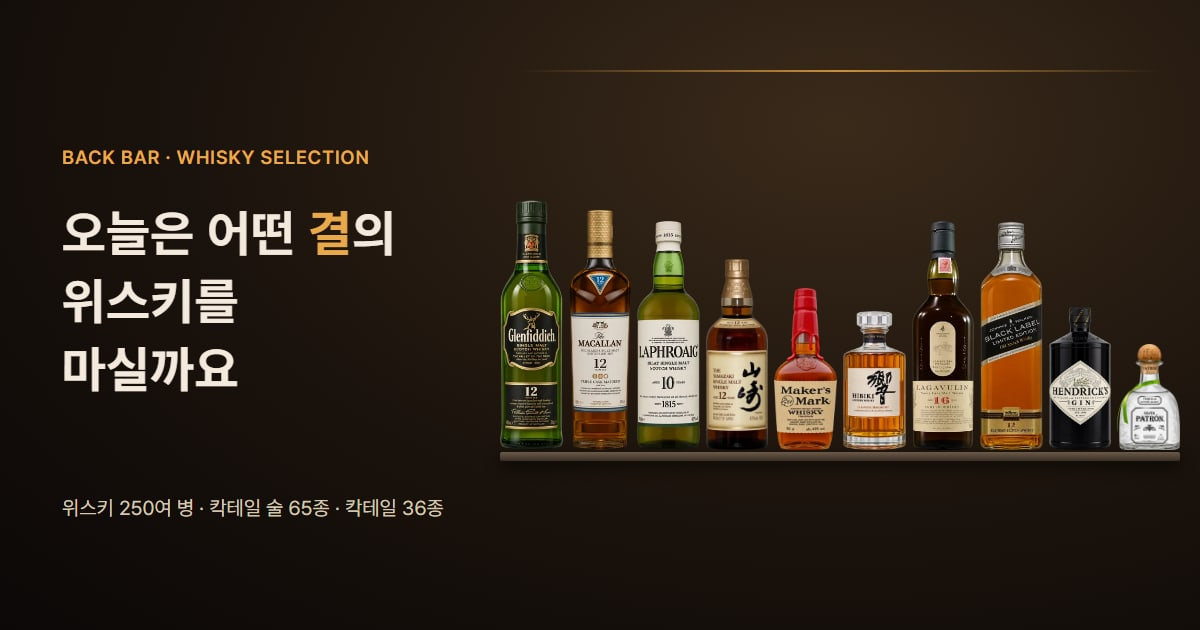
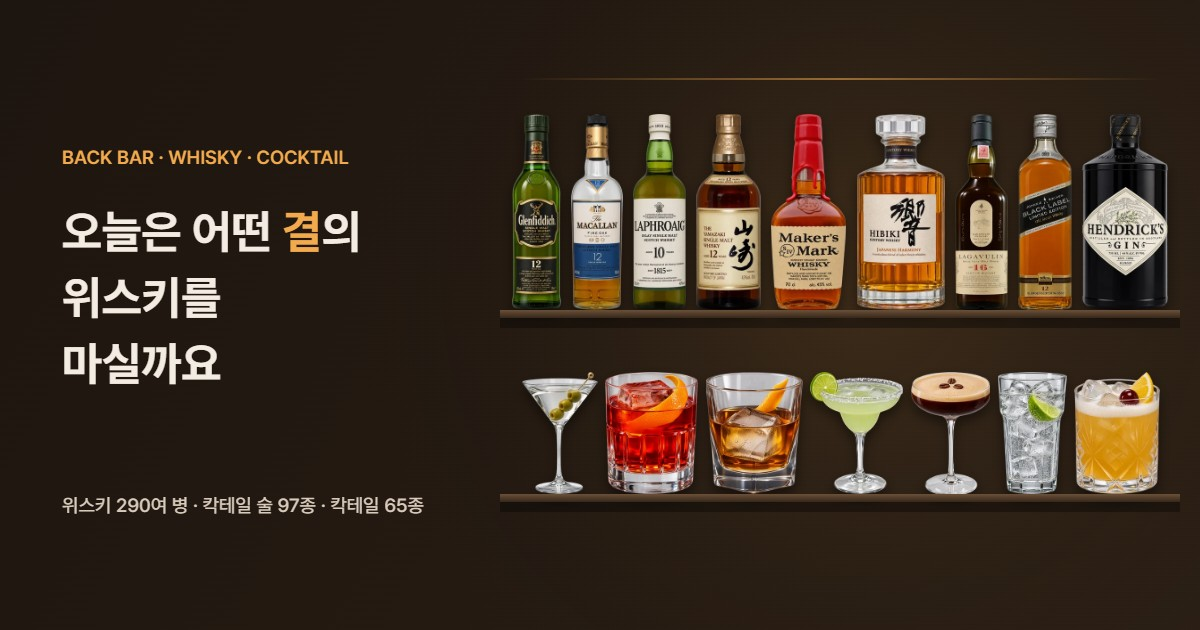
공유 미리보기 이미지에 칵테일 잔 선반 추가, 수록 수 갱신
왜: 칵테일 잔 그림이 생겼는데 공유 이미지는 위스키 병만 있었고, 이미지·og 설명의 수록 수(250여 병·65종·36종)가 옛 값이었음.

바꾼 것: 병 9개 선반 아래 칵테일 7잔 선반을 더하고 머리말을 BACK BAR · WHISKY · COCKTAIL로, 수를 위스키 290여 병·칵테일 술 97종·칵테일 65종으로. og:description 같은 수로.
확인: 1200×630 JPG, 글꼴은 페이지와 같은 Pretendard.
못 본 것: 카카오톡 공유 캐시가 남아 있으면 예전 이미지가 한동안 보일 수 있음.

diff --git a/index.html b/index.html
@@ -8,7 +8,7 @@
 <meta name="theme-color" content="#0a0807">
 <meta property="og:type" content="website">
 <meta property="og:title" content="위스키 백바">
-<meta property="og:description" content="국내 위스키바 선반의 위스키 250여 병과 진·럼·데킬라·리큐르 등 칵테일 술 65종, 대표 칵테일 36종. 맛·도수·병 소매가를 한눈에.">
+<meta property="og:description" content="국내 위스키바 선반의 위스키 290여 병과 진·럼·데킬라·리큐르 등 칵테일 술 97종, 대표 칵테일 65종. 맛·도수·병 소매가를 한눈에.">
 <meta property="og:url" content="https://newhead84.github.io/whisky-backbar/">
 <meta property="og:image" content="https://newhead84.github.io/whisky-backbar/og.jpg">
 <meta property="og:image:width" content="1200">
